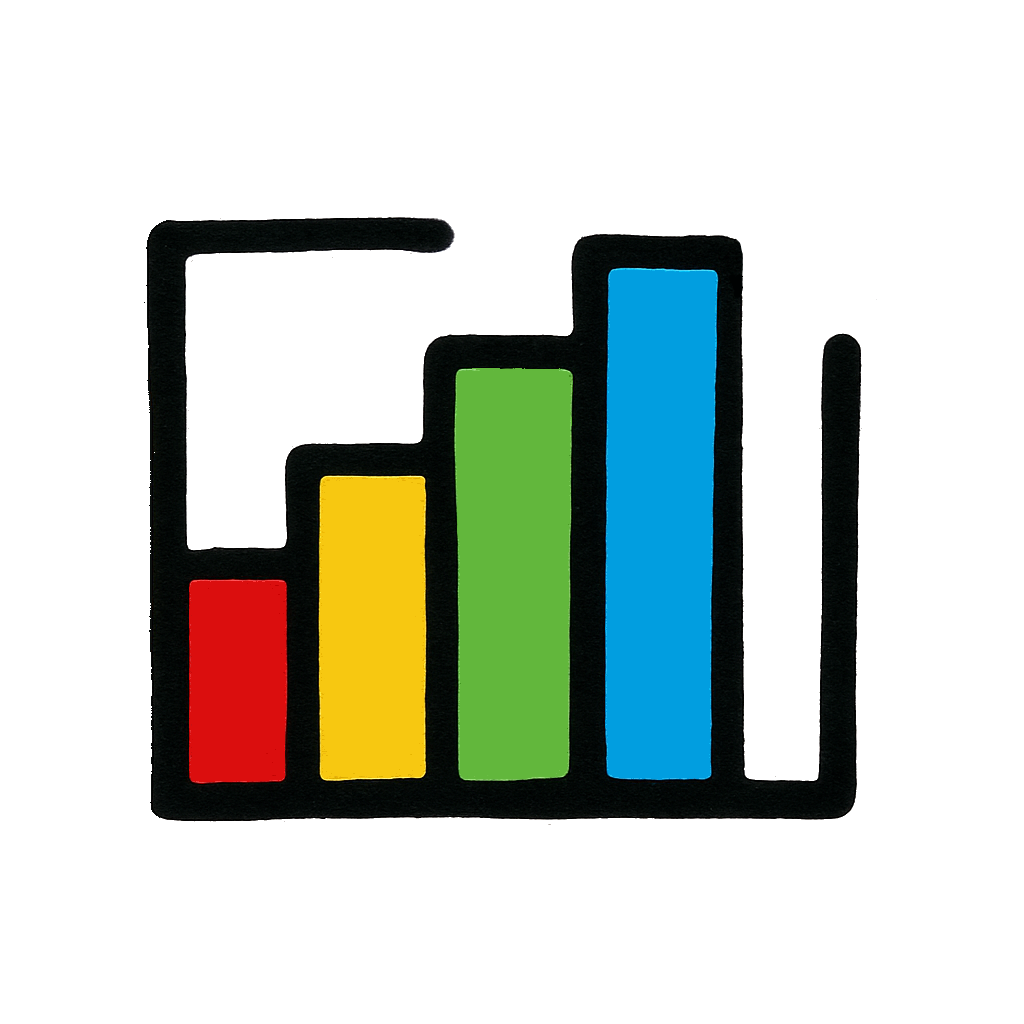
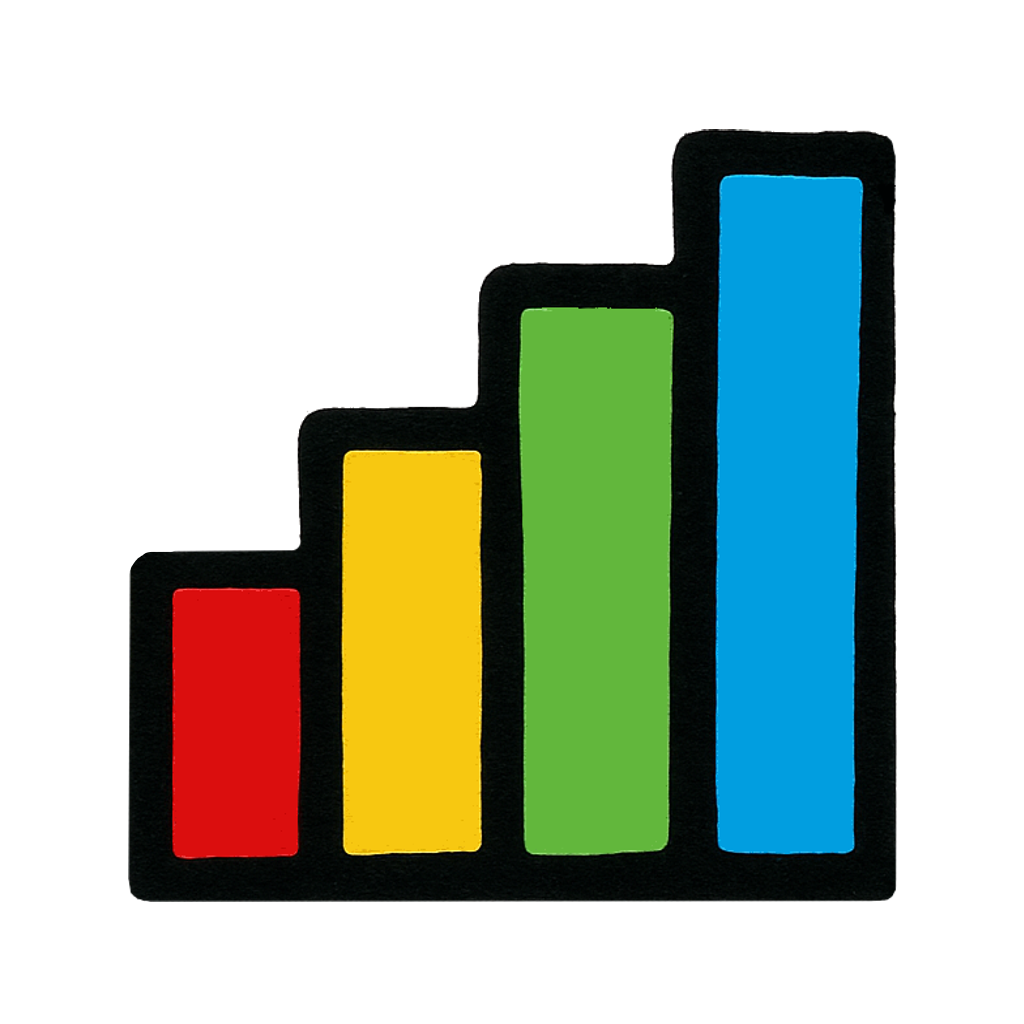
Add customizable UI form to DEM generation method
- Added specific icon to bare earth DEM generation
- Actions are now more clearly specified when declared in my_lidar.py
- File statistics' function icon slightly changed

diff --git a/my_lidar.py b/my_lidar.py
@@ -1,12 +1,13 @@
+# --- General imports ---
 import os
 
-# QGIS and PyQt imports
+# --- QGIS and PyQt imports ---
 from qgis.PyQt.QtCore import QCoreApplication
 from qgis.PyQt.QtWidgets import QAction, QMessageBox
 from qgis.PyQt.QtGui import QIcon
 from PyQt5.QtWidgets import QMessageBox, QMenu
 
-# --- Method imports ---
+# --- Method-specific imports ---
 from .report_generation.report_generation import generate_report
 from .outlier_removal.outlier_removal import remove_outliers
 from .overlap_removal.overlap_removal import remove_overlap
@@ -22,13 +23,15 @@ class MyLiDARPlugin:
     def __init__(self, iface):
         self.iface = iface
         self.plugin_dir = os.path.dirname(__file__)
-        self.action = None
-        self.secondary_action = None
-        self.third_action = None
-        self.fourth_action = None
-        self.fifth_action = None
-        self.sixth_action = None
-        self.seventh_action = None
+
+        # Initialize actions
+        self.report_action = None
+        self.outliers_action = None
+        self.overlap_action = None
+        self.count_action = None
+        self.vegetation_action = None
+        self.statistics_action = None
+        self.dem_action = None
 
     def tr(self, message):
         return QCoreApplication.translate('LiDAR Document Generator', message)
@@ -40,6 +43,7 @@ class MyLiDARPlugin:
         building_icon_path = os.path.join(self.plugin_dir, 'icons/building.png')
         vegetation_icon_path = os.path.join(self.plugin_dir, 'icons/vegetation.png')
         statistics_icon_path = os.path.join(self.plugin_dir, 'icons/statistics.png')
+        dem_icon_path = os.path.join(self.plugin_dir, 'icons/dem.png')
 
         self.menu = QMenu(self.tr("MyLiDAR"), self.iface.mainWindow().menuBar())
         self.iface.mainWindow().menuBar().insertMenu(
@@ -47,55 +51,55 @@ class MyLiDARPlugin:
             self.menu
         )
 
-        self.action = QAction(QIcon(report_icon_path), self.tr('Generate LiDAR File Report'), self.iface.mainWindow())
-        self.action.triggered.connect(self.report_generation)
-        self.iface.addToolBarIcon(self.action)
-        self.menu.addAction(self.action)
+        self.report_action = QAction(QIcon(report_icon_path), self.tr('Generate LiDAR File Report'), self.iface.mainWindow())
+        self.report_action.triggered.connect(self.report_generation)
+        self.iface.addToolBarIcon(self.report_action)
+        self.menu.addAction(self.report_action)
 
-        self.secondary_action = QAction(QIcon(cleanup_icon_path), self.tr('Remove outlier points'), self.iface.mainWindow())
-        self.secondary_action.triggered.connect(self.outlier_removal)
-        self.iface.addToolBarIcon(self.secondary_action)
-        self.menu.addAction(self.secondary_action)
+        self.outliers_action = QAction(QIcon(cleanup_icon_path), self.tr('Remove outlier points'), self.iface.mainWindow())
+        self.outliers_action.triggered.connect(self.outlier_removal)
+        self.iface.addToolBarIcon(self.outliers_action)
+        self.menu.addAction(self.outliers_action)
 
-        self.third_action = QAction(QIcon(overlap_icon_path), self.tr('Remove overlapping'), self.iface.mainWindow())
-        self.third_action.triggered.connect(self.overlap_removal)
-        self.iface.addToolBarIcon(self.third_action)
-        self.menu.addAction(self.third_action)
+        self.overlap_action = QAction(QIcon(overlap_icon_path), self.tr('Remove overlapping'), self.iface.mainWindow())
+        self.overlap_action.triggered.connect(self.overlap_removal)
+        self.iface.addToolBarIcon(self.overlap_action)
+        self.menu.addAction(self.overlap_action)
 
-        self.fifth_action = QAction(QIcon(vegetation_icon_path), self.tr('Classify vegetation'), self.iface.mainWindow())
-        self.fifth_action.triggered.connect(self.vegetation_classification)
-        self.iface.addToolBarIcon(self.fifth_action)
-        self.menu.addAction(self.fifth_action)
+        self.vegetation_action = QAction(QIcon(vegetation_icon_path), self.tr('Classify vegetation'), self.iface.mainWindow())
+        self.vegetation_action.triggered.connect(self.vegetation_classification)
+        self.iface.addToolBarIcon(self.vegetation_action)
+        self.menu.addAction(self.vegetation_action)
 
         # Toolbar-only actions
-        self.fourth_action = QAction(QIcon(building_icon_path), self.tr('Count buildings'), self.iface.mainWindow())
-        self.fourth_action.triggered.connect(self.building_count)
-        self.menu.addAction(self.fourth_action)
+        self.count_action = QAction(QIcon(building_icon_path), self.tr('Count buildings'), self.iface.mainWindow())
+        self.count_action.triggered.connect(self.building_count)
+        self.menu.addAction(self.count_action)
 
-        self.sixth_action = QAction(QIcon(statistics_icon_path), self.tr('View file statistics'), self.iface.mainWindow())
-        self.sixth_action.triggered.connect(self.statistics_generation)
-        self.menu.addAction(self.sixth_action)
+        self.statistics_action = QAction(QIcon(statistics_icon_path), self.tr('View file statistics'), self.iface.mainWindow())
+        self.statistics_action.triggered.connect(self.statistics_generation)
+        self.menu.addAction(self.statistics_action)
 
-        self.seventh_action = QAction(QIcon(statistics_icon_path), self.tr('Generate Bare Earth DEM'), self.iface.mainWindow())
-        self.seventh_action.triggered.connect(self.bare_earth_dem_generation)
-        self.menu.addAction(self.seventh_action)
+        self.dem_action = QAction(QIcon(dem_icon_path), self.tr('Generate Bare Earth DEM'), self.iface.mainWindow())
+        self.dem_action.triggered.connect(self.bare_earth_dem_generation)
+        self.menu.addAction(self.dem_action)
 
     def unload(self):
-        self.menu.removeAction(self.action)
-        self.menu.removeAction(self.secondary_action)
-        self.menu.removeAction(self.third_action)
-        self.menu.removeAction(self.fourth_action)
-        self.menu.removeAction(self.fifth_action)
-        self.menu.removeAction(self.sixth_action)
-        self.menu.removeAction(self.seventh_action)
+        self.menu.removeAction(self.report_action)
+        self.menu.removeAction(self.outliers_action)
+        self.menu.removeAction(self.overlap_action)
+        self.menu.removeAction(self.count_action)
+        self.menu.removeAction(self.vegetation_action)
+        self.menu.removeAction(self.statistics_action)
+        self.menu.removeAction(self.dem_action)
 
-        self.iface.removeToolBarIcon(self.action)
-        self.iface.removeToolBarIcon(self.secondary_action)
-        self.iface.removeToolBarIcon(self.third_action)
-        self.iface.removeToolBarIcon(self.fourth_action)
-        self.iface.removeToolBarIcon(self.fifth_action)
-        self.iface.removeToolBarIcon(self.sixth_action)
-        # self.iface.removeToolBarIcon(self.seventh_action)
+        self.iface.removeToolBarIcon(self.report_action)
+        self.iface.removeToolBarIcon(self.outliers_action)
+        self.iface.removeToolBarIcon(self.overlap_action)
+        self.iface.removeToolBarIcon(self.count_action)
+        self.iface.removeToolBarIcon(self.vegetation_action)
+        self.iface.removeToolBarIcon(self.statistics_action)
+        # self.iface.removeToolBarIcon(self.dem_action)
 
         self.iface.mainWindow().menuBar().removeAction(self.menu.menuAction())
 

diff --git a/dem_generation/dem_generation.py b/dem_generation/dem_generation.py
@@ -1,7 +1,7 @@
 import os
 
-from qgis.PyQt.QtWidgets import QFileDialog, QMessageBox, QDialog, QInputDialog
-from PyQt5.QtWidgets import QApplication, QMessageBox, QDialog, QInputDialog
+from qgis.PyQt.QtWidgets import QFileDialog, QMessageBox, QDialog
+from PyQt5.QtWidgets import QApplication, QMessageBox, QDialog
 from PyQt5.QtTest import QTest
 from PyQt5.QtCore import Qt
 
@@ -10,7 +10,7 @@ import laspy
 from laspy import LazBackend
 import numpy as np
 
-# from .outlier_removal_dialog import OutlierRemovalDialog
+from .dem_generation_dialog import BareEarthDemDialog
 
 from ..utils import create_loading_dialog
 
@@ -28,17 +28,10 @@ def generate_bare_earth_dem(self):
     if not filename:
         return
 
-    # Dialog to let user select DEM resolution
-    dialog = QInputDialog(self.iface.mainWindow())
-    dialog.setWindowTitle("DEM Resolution")
-    dialog.setLabelText("Enter DEM cell size (meters):")
-    dialog.setInputMode(QInputDialog.DoubleInput)
-    dialog.setDoubleDecimals(2)
-    dialog.setDoubleMinimum(0.1)
-    dialog.setDoubleValue(1.0)  # Default 1 m cell size
-    if dialog.exec_() != QDialog.Accepted:
+    dlg = BareEarthDemDialog(self.iface.mainWindow())
+    if dlg.exec_() != QDialog.Accepted:
         return
-    cell_size = dialog.doubleValue()
+    cell_size = dlg.get_values()
 
     loading_dialog = create_loading_dialog(self)
 
@@ -51,7 +44,7 @@ def generate_bare_earth_dem(self):
 
         las = laspy.read(filename, laz_backend=LazBackend.Lazrs)
 
-        # Filter to only ground points (ASPRS classification code 2)
+        # Filter ground points (ASPRS classification code 2)
         ground_mask = (las.classification == 2)
         if not np.any(ground_mask):
             raise ValueError("No ground points found in the file.")
@@ -116,7 +109,6 @@ def generate_bare_earth_dem(self):
             srs.ImportFromEPSG(4326)  # Safe fallback
 
         out_raster.SetProjection(srs.ExportToWkt())
-
         out_band = out_raster.GetRasterBand(1)
         out_band.WriteArray(dem_filled)
         out_band.SetNoDataValue(-9999)
@@ -126,13 +118,13 @@ def generate_bare_earth_dem(self):
             self.iface.mainWindow(),
             "Bare Earth DEM Generated",
             f"DEM successfully generated from ground points.\n"
-            f"Output saved to:\n{output_path}"
+            f"Output saved at:\n{output_path}"
         )
 
     except Exception as e:
         QMessageBox.critical(
             self.iface.mainWindow(),
-            "Error Generating Bare Earth DEM",
+            "Error whilst generating Bare Earth DEM",
             f"An error occurred:\n{e}"
         )
 

diff --git a/dem_generation/dem_generation_dialog.py b/dem_generation/dem_generation_dialog.py
@@ -1,0 +1,18 @@
+from PyQt5.QtWidgets import QDialog
+from PyQt5 import uic
+import os
+
+FORM_CLASS, _ = uic.loadUiType(os.path.join(
+    os.path.dirname(__file__), './dem_generation_form.ui'))
+
+class BareEarthDemDialog(QDialog, FORM_CLASS):
+    def __init__(self, parent=None):
+        super().__init__(parent)
+        self.setupUi(self)
+
+        self.buttonBox.accepted.connect(self.accept)
+        self.buttonBox.rejected.connect(self.reject)
+
+    def get_values(self):
+        cell_size = self.cellSizeSpinBox.value()
+        return cell_size

diff --git a/report_generation/report_generation.py b/report_generation/report_generation.py
@@ -132,7 +132,7 @@ def generate_report(self):
         else:
             generate_txt_report(self, report_path, data)
 
-        QMessageBox.information(self.iface.mainWindow(), "Success", f"Report created at {report_path}")
+        QMessageBox.information(self.iface.mainWindow(), "Success", f"Report created at:\n{report_path}")
 
     except Exception as e:
         QMessageBox.critical(self.iface.mainWindow(), "Error", f"Failed to process file:\n{e}")
